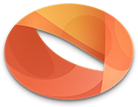
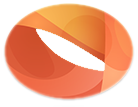
Center site and create footer .scss file

diff --git a/app/assets/stylesheets/white_theme/footer.scss b/app/assets/stylesheets/white_theme/footer.scss
@@ -1,0 +1,130 @@
+.footer {
+  min-width: 940px;
+  ul {
+    margin-bottom: 10px;
+    li {
+      margin-bottom: 4px;
+      &.footer-forum-topic {
+        margin-bottom: 8px;
+        a {
+          line-height: 16px;
+        }
+      }
+    }
+  }
+  a {
+    font-size: 14px;
+    font-weight: bold;
+    line-height: 20px;
+  }
+  a:hover {
+    // text-decoration: none;
+  }
+  .author_name a {
+    font-size: 12px;
+    font-weight: normal;
+  }
+}
+
+%footer_column {
+  font-size: 12px;
+  display: block;
+  float: left;
+  margin: 0 0;
+  vertical-align: top;
+  #updates_link.new {
+    color: $red;
+  }
+  > div {
+    margin-bottom: 3px;
+  }
+}
+
+.footer_column_1 {
+  width: 120px;
+  padding-right: 20px;
+  padding-left: 30px;
+
+  @extend %footer_column;
+}
+.footer_column_2 {
+  width: 410px;
+  padding-right: 20px;
+
+  @extend %footer_column;
+}
+
+.footer_column_2_left {
+  width: 150px;
+  padding-right: 40px;
+
+  @extend %footer_column;
+}
+
+.footer_column_2_right {
+  width: 200px;
+
+  @extend %footer_column;
+  // padding-right: 40px;
+}
+
+.footer_column_2_bottom {
+  clear: both;
+
+  @extend %footer_column;
+  li {
+    font-size: 14px;
+  }
+  // width: 200px;
+  // padding-right: 40px;
+}
+
+
+.footer_column_3 {
+  width: 280px;
+  padding-right: 40px;
+
+  @extend %footer_column;
+}
+
+.footer-column-header {
+  font-size: 14px;
+  font-weight: bold;
+  margin-top: 20px;
+  margin-bottom: 5px;
+  padding-bottom: 5px;
+  color: #585858;
+  border-bottom: 1px #929292 solid;
+}
+
+.footer_button_group {
+  width: 104px;
+  margin-top: 14px;
+  padding-top: 8px;
+  padding-bottom: 8px;
+  text-align: center;
+  border: 1px #C2C2C2 solid;
+
+  @include border-radius(5px, 5px);
+}
+
+.footer_button_group a {
+  display: block;
+  width: 64px;
+  margin: 0 auto;
+  margin-top: 4px;
+}
+
+a.footer_button_label {
+  font-size: 11px;
+  width: 104px;
+  // margin-left: -8px;
+}
+
+a.footer_button_label:hover {
+  // text-decoration: none;	
+}
+
+.footer_orange_text {
+  color: $orange;
+}

diff --git a/app/assets/stylesheets/white_theme/layout.scss b/app/assets/stylesheets/white_theme/layout.scss
@@ -9,10 +9,13 @@ body {
 }
 
 #container {
+  min-height: 100%;
   height: auto !important;
   height: 100%;
-  min-height: 100%;
   margin-bottom: -290px;
+  width: 940px;
+  margin-left: auto;
+  margin-right: auto;
 }
 
 .sticky_footer_buffer {
@@ -56,9 +59,11 @@ body {
 .footer {
   height: 239px;
   padding-top: 31px;
-  padding-bottom: 20px;
+  padding-bottom: 40px;
   padding-left: 20px;
-  background-color: #EEEEEE;
+  width: 940px;
+  margin-left: auto;
+  margin-right: auto;
 }
 
 .clearfix:after {

diff --git a/app/assets/stylesheets/white_theme.scss b/app/assets/stylesheets/white_theme.scss
@@ -12,18 +12,13 @@
 @import 'white_theme/tracks';
 @import 'white_theme/playlists';
 @import 'white_theme/tabs';
+@import 'white_theme/footer';
 
 @import 'application/reset';
 @import 'application/simple_form';
 @import 'application/nav';
-@import 'application/footer';
 @import 'application/facebox';
 @import 'application/upload';
-
-
-.comment {
-  background: none;
-}
 
 
 // no more icons by h2s

diff --git a/app/assets/stylesheets/white_theme/header.scss b/app/assets/stylesheets/white_theme/header.scss
@@ -1,5 +1,6 @@
 .header_inner {
   width: 940px;
+  position: relative;
 }
 
 .header_logo {
@@ -9,7 +10,7 @@
   display: block;
   width: 69px;
   height: 54px;
-  background: transparent image-url('alonetone_big-notext.png') no-repeat;
+  background: transparent image-url('alonetone_big-notext-flat.png') no-repeat;
   background-size: 100%;
 }
 
